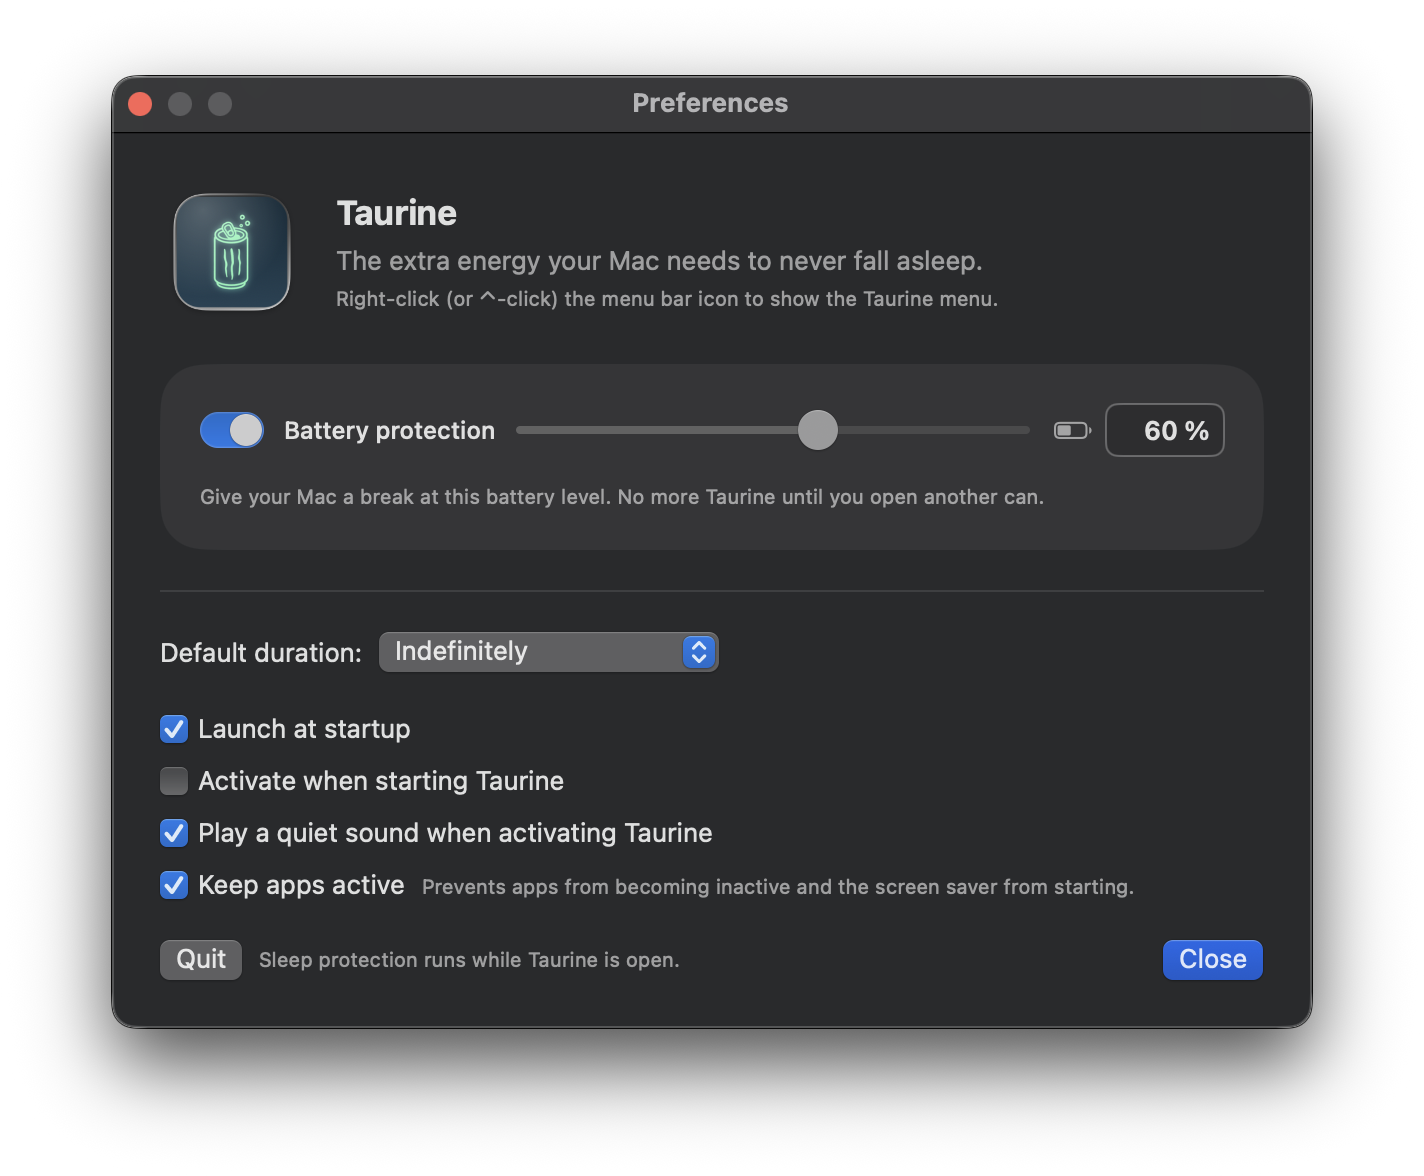
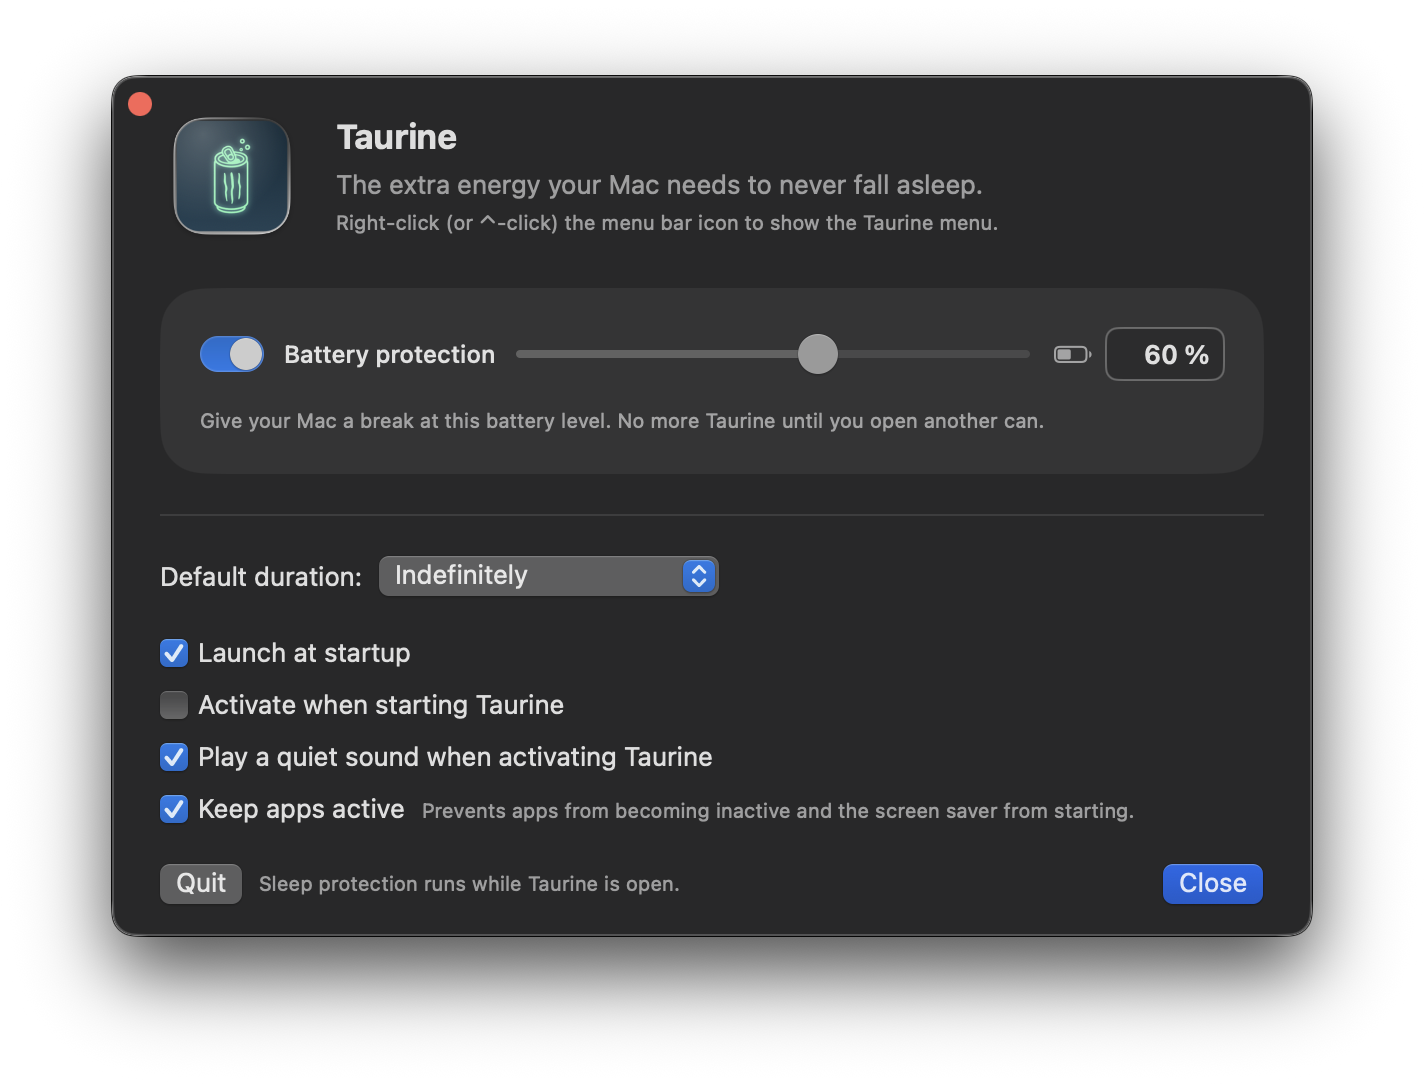
Blend the Preferences title bar into the window
The title bar is transparent with its title hidden, so the header sits at the
top of the window instead of below a separate grey strip. The minimize and
zoom buttons are hidden as well: the window is neither resizable nor
miniaturizable, so they were dead space next to the close button.

The window title is kept for Exposé and accessibility, and updated to
"Taurine - Preferences".

diff --git a/src/Taurine/Classes/Views/MenuBarController.swift b/src/Taurine/Classes/Views/MenuBarController.swift
@@ -282,9 +282,18 @@ class MenuBarController: NSObject {
             let hostingController = NSHostingController(rootView: contentView)
 
             let window = NSWindow(contentViewController: hostingController)
-            window.title = String(localized: "Preferences")
+            window.title = String(localized: "Taurine - Preferences")
             window.isReleasedWhenClosed = false
-            window.styleMask = [.titled, .closable]
+            window.styleMask = [.titled, .closable, .fullSizeContentView]
+            // Barra transparente e sem título visível: ela assume a cor da
+            // janela e o cabeçalho do app ocupa o topo sem faixa cinza. O
+            // `title` acima continua valendo para Exposé e acessibilidade.
+            window.titlebarAppearsTransparent = true
+            window.titleVisibility = .hidden
+            // A janela não redimensiona nem minimiza: os botões existem apenas
+            // como espaço morto ao lado do fechar.
+            window.standardWindowButton(.miniaturizeButton)?.isHidden = true
+            window.standardWindowButton(.zoomButton)?.isHidden = true
             window.setContentSize(hostingController.view.fittingSize)
             window.center()
 

diff --git a/src/Taurine/Classes/Views/PreferencesView.swift b/src/Taurine/Classes/Views/PreferencesView.swift
@@ -233,7 +233,11 @@ struct PreferencesView: View {
                     .keyboardShortcut(.defaultAction)
             }
         }
-        .padding(24)
+        .padding(.horizontal, 24)
+        .padding(.bottom, 16)
+        // A faixa da barra de título já ocupa ~28pt acima do conteúdo; sem
+        // descontá-los, a margem superior ficaria o dobro da inferior.
+        .padding(.top, -14)
         .frame(width: 600)
         .fixedSize(horizontal: false, vertical: true)
         .onAppear { self.thresholdText = String(BatteryPolicy.threshold(self.batteryThreshold)) }
